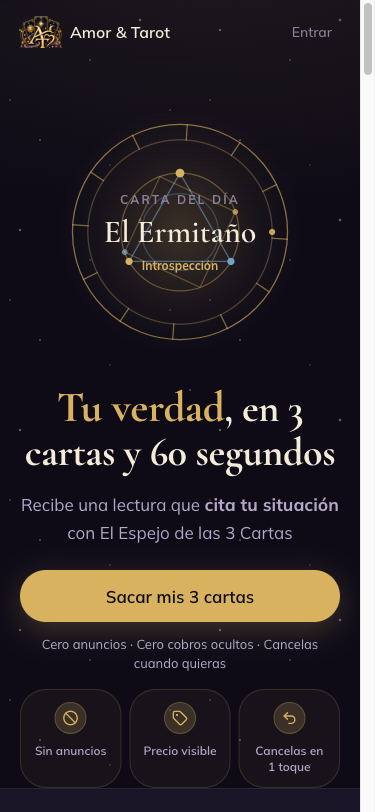
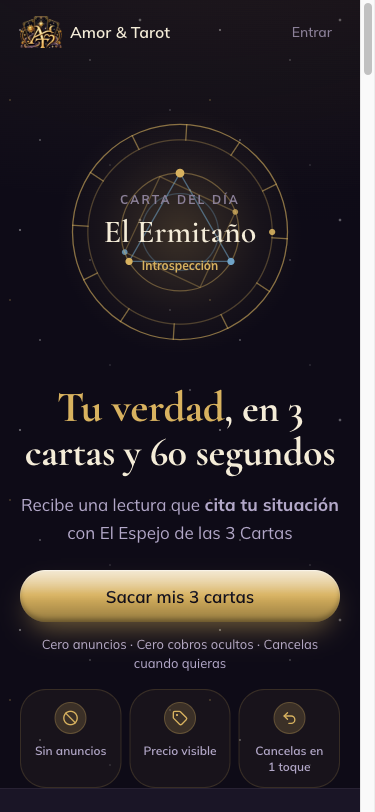
style: acabado 3D vidrio/cromo en los botones de la página de ventas
Reusa la receta que tokens.css ya define para [data-tema='mistico'] — la misma
de los botones de la app por dentro — en vez de escribir otra. Hacía falta
relative + overflow-hidden para recortar el brillo especular del ::before a la
píldora.

diff --git a/components/landing/ui.tsx b/components/landing/ui.tsx
@@ -183,7 +183,12 @@ export const VIEWPORT_ONCE = { once: true, amount: 0.2 } as const;
 
 /* ── <CtaButton> — el CTA vivo del kit: ≥52px, whileTap 0.97, sombra tintada.
    El texto sobre acento usa --bg: si tu FICHA-ARTE rompe el contraste AA ahí,
-   ajusta los tokens, no el componente. ── */
+   ajusta los tokens, no el componente.
+   `boton-principal` engancha el acabado 3D vidrio/cromo que ya define
+   tokens.css bajo [data-tema='mistico'] — el MISMO que usan los botones de la
+   app por dentro, no una copia nueva. En un tema claro esa regla no aplica y el
+   botón queda plano como antes. `relative overflow-hidden` no es decorativo: el
+   brillo especular va en un ::before absoluto que hay que recortar a la píldora. ── */
 export function CtaButton({
   href,
   children,
@@ -199,7 +204,7 @@ export function CtaButton({
     <motion.a
       whileTap={{ scale: 0.97 }}
       href={href}
-      className={`inline-flex items-center justify-center rounded-[var(--radius-button)] bg-[var(--accent)] px-8 text-[17px] font-semibold text-[var(--bg)] shadow-[0_8px_30px_color-mix(in_oklab,var(--accent)_25%,transparent)] transition-colors duration-150 hover:bg-[color-mix(in_oklab,var(--accent)_88%,var(--text-primary))] [touch-action:manipulation] ${
+      className={`boton-principal relative inline-flex items-center justify-center overflow-hidden rounded-[var(--radius-button)] bg-[var(--accent)] px-8 text-[17px] font-semibold text-[var(--bg)] shadow-[0_8px_30px_color-mix(in_oklab,var(--accent)_25%,transparent)] transition-colors duration-150 hover:bg-[color-mix(in_oklab,var(--accent)_88%,var(--text-primary))] [touch-action:manipulation] ${
         alto === 56 ? 'h-14' : 'h-[52px]'
       } ${fullMobile ? 'w-full sm:w-auto' : ''}`}
     >
@@ -276,7 +281,7 @@ export function StickyCtaMobile({
           <motion.a
             whileTap={{ scale: 0.97 }}
             href={ofertaVista ? href : `#${ofertaId}`}
-            className="flex h-12 w-full items-center justify-center rounded-[var(--radius-button)] bg-[var(--accent)] text-[16px] font-semibold text-[var(--bg)] [touch-action:manipulation]"
+            className="boton-principal relative flex h-12 w-full items-center justify-center overflow-hidden rounded-[var(--radius-button)] bg-[var(--accent)] text-[16px] font-semibold text-[var(--bg)] [touch-action:manipulation]"
           >
             {ofertaVista ? labelComercial : labelPre}
           </motion.a>

diff --git a/ESTADO.md b/ESTADO.md
@@ -26,6 +26,16 @@ pasa a ser el visual del héroe, así que ya no se pasa captura de celular ahí)
 Verificado a 375px y a 1280px, recorriendo TODAS las secciones con scroll real (no captura de
 página completa: con `whileInView` las capturas full-page salen vacías y engañan). Consola sin
 errores. tsc/build limpios. Evidencia: `docs/revisiones/landing-A-375.png` y `landing-A-desktop.png`.
+✅ BOTONES 3D el mismo día, a pedido del usuario ("que se vean más 3D como están dentro de la
+app"): `CtaButton` y el botón de la barra fija (`components/landing/ui.tsx`) ahora llevan la clase
+`boton-principal`, que engancha el acabado vidrio/cromo que YA definía `tokens.css` bajo
+`[data-tema='mistico']` — el mismo de los botones de la app, no una receta nueva (degradé tonal +
+brillo especular en `::before` + 2 sombras internas + sombra externa tintada de dorado). Hizo falta
+agregarles `relative overflow-hidden`: el brillo es un `::before` absoluto y sin recorte se salía de
+la píldora. En un tema claro esa regla no aplica sola, así que el kit sigue sirviendo para otros
+proyectos sin arrastrar este acabado. Verificado con `getComputedStyle`, no solo a ojo: degradé
+presente, `::before` con gradiente, y las 3 capas de sombra (2 `inset` + 1 externa).
+
 ✅ LOGO REAL puesto el mismo día, a pedido del usuario ("pon el logo primero"): la cabecera y el
 pie ya no muestran un cuadro de color de relleno. Se creó `public/marca/emblema.png` recortando
 del logo completo SOLO el emblema (las 3 cartas + el aro + el monograma "AT"), dejando fuera la
